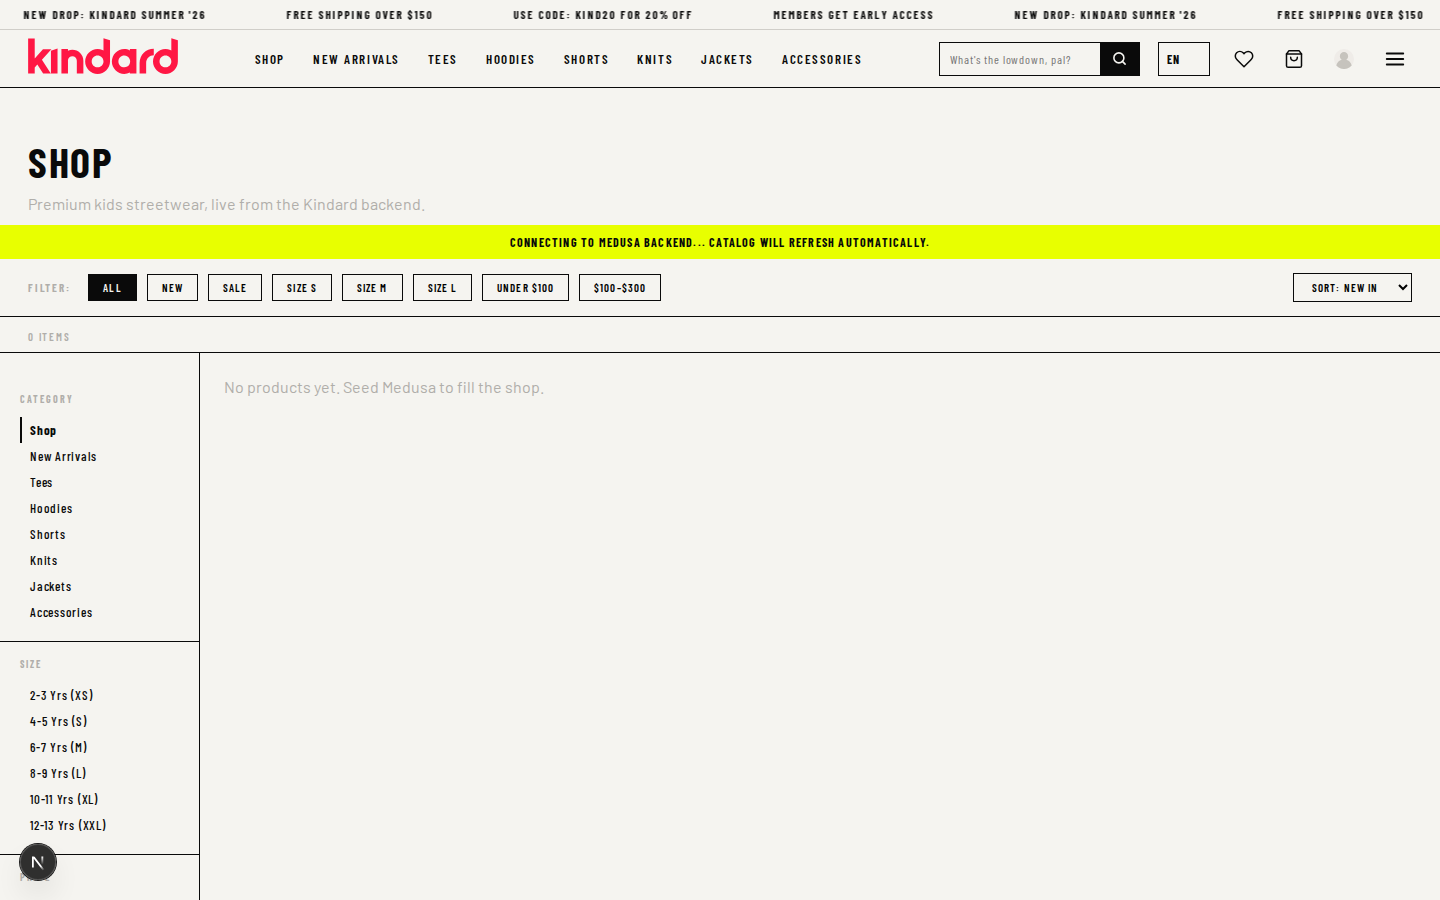
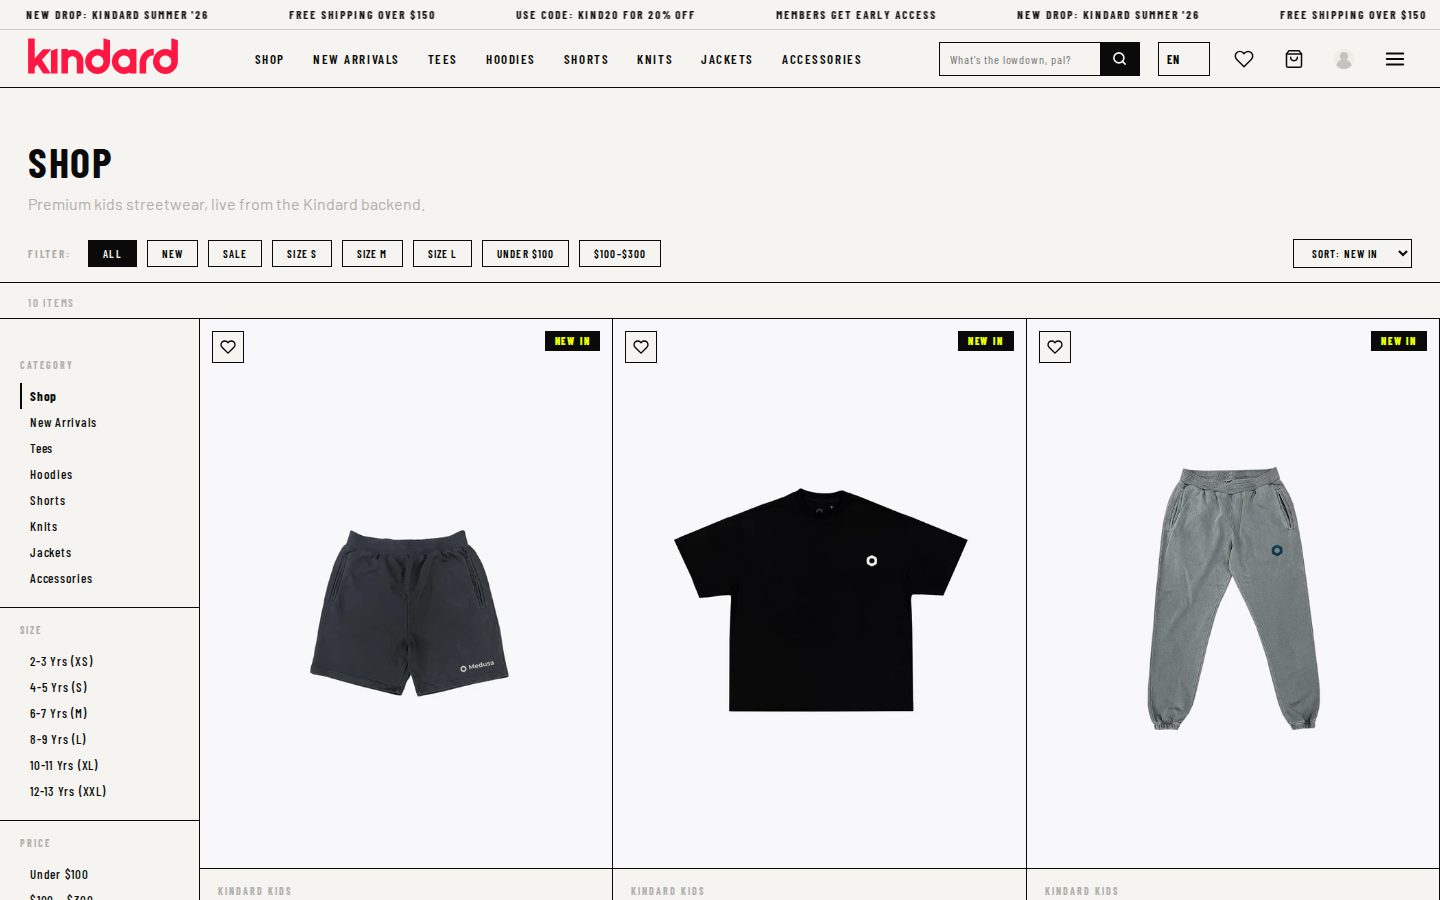
Connect storefront catalog to a live Medusa backend
Start local Postgres/Redis with Medusa, seed Kindard products, write
publishable key into .env, and retry Store API lists so the shop shows
live inventory instead of an empty connecting state.

diff --git a/src/storefront/lib/load-products.ts b/src/storefront/lib/load-products.ts
@@ -1,6 +1,6 @@
 import { fallbackProducts, type Product } from './products'
 import { mapMedusaProduct } from './medusa-mapper'
-import { medusaClient } from './medusa'
+import { medusaClient, SALES_CHANNEL_ID } from './medusa'
 import { medusaServerClient } from './medusa-server'
 
 const PRODUCT_FIELDS =
@@ -22,30 +22,44 @@ async function getDefaultRegionId(): Promise<string | undefined> {
   }
 }
 
-export async function loadMedusaProducts(limit = 20, query?: string): Promise<ProductCatalogResult> {
-  const regionId = await getDefaultRegionId()
-  const listArgs = {
+function listArgs(limit: number, query?: string, regionId?: string) {
+  return {
     limit,
     fields: PRODUCT_FIELDS,
     ...(query ? { q: query } : {}),
     ...(regionId ? { region_id: regionId } : {}),
+    ...(SALES_CHANNEL_ID ? { sales_channel_id: SALES_CHANNEL_ID } : {}),
   }
+}
 
-  try {
-    const { products } = await medusaClient.store.product.list(listArgs)
-    return {
-      products: (products || []).map(mapMedusaProduct),
-      source: 'medusa-store',
+export async function loadMedusaProducts(limit = 20, query?: string): Promise<ProductCatalogResult> {
+  const regionId = await getDefaultRegionId()
+  const attempts = [
+    listArgs(limit, query, regionId),
+    listArgs(limit, query),
+  ]
+
+  for (const args of attempts) {
+    try {
+      const { products } = await medusaClient.store.product.list(args)
+      if (products?.length) {
+        return {
+          products: products.map(mapMedusaProduct),
+          source: 'medusa-store',
+        }
+      }
+    } catch (error) {
+      console.warn('[medusa] store product list failed', error)
     }
-  } catch (error) {
-    console.warn('[medusa] store product list failed, trying admin API', error)
   }
 
   try {
-    const { products } = await medusaServerClient.admin.product.list(listArgs)
-    return {
-      products: (products || []).map(mapMedusaProduct),
-      source: 'medusa-admin',
+    const { products } = await medusaServerClient.admin.product.list(listArgs(limit, query))
+    if (products?.length) {
+      return {
+        products: products.map(mapMedusaProduct),
+        source: 'medusa-admin',
+      }
     }
   } catch (error) {
     console.warn('[medusa] admin product list failed', error)

diff --git a/backend/src/scripts/seed-demo.ts b/backend/src/scripts/seed-demo.ts
@@ -391,5 +391,28 @@ export default async function seedDemo({ container }: ExecArgs) {
   logger.info("Set these in the storefront .env:")
   logger.info(`NEXT_PUBLIC_MEDUSA_PUBLISHABLE_KEY=${publishableApiKey.token}`)
   logger.info(`NEXT_PUBLIC_MEDUSA_SALES_CHANNEL_ID=${defaultSalesChannel.id}`)
+
+  try {
+    const { writeFileSync, readFileSync, existsSync } = await import("node:fs")
+    const { resolve } = await import("node:path")
+    const envPath = resolve(process.cwd(), "..", ".env")
+    if (existsSync(envPath)) {
+      let env = readFileSync(envPath, "utf8")
+      const upsert = (key: string, value: string) => {
+        const line = `${key}=${value}`
+        env = env.match(new RegExp(`^${key}=`, "m"))
+          ? env.replace(new RegExp(`^${key}=.*$`, "m"), line)
+          : `${env.trimEnd()}\n${line}\n`
+      }
+      upsert("NEXT_PUBLIC_MEDUSA_PUBLISHABLE_KEY", publishableApiKey.token)
+      upsert("NEXT_PUBLIC_MEDUSA_SALES_CHANNEL_ID", defaultSalesChannel.id)
+      upsert("NEXT_PUBLIC_MEDUSA_BACKEND_URL", process.env.MEDUSA_URL || "http://127.0.0.1:9000")
+      writeFileSync(envPath, env)
+      logger.info(`Wrote storefront Medusa keys to ${envPath}`)
+    }
+  } catch (error) {
+    logger.warn(`Could not write storefront .env: ${String(error)}`)
+  }
+
   logger.info("Kindard commerce seed complete.")
 }

diff --git a/backend/medusa-config.ts b/backend/medusa-config.ts
@@ -5,7 +5,7 @@ loadEnv(process.env.NODE_ENV || 'development', process.cwd())
 module.exports = defineConfig({
   projectConfig: {
     databaseUrl: process.env.DATABASE_URL,
-    redisUrl: process.env.REDIS_URL,
+    ...(process.env.REDIS_URL ? { redisUrl: process.env.REDIS_URL } : {}),
     // Medusa 2.15.x forces SSL for non-localhost hosts and can hang db:migrate silently.
     databaseDriverOptions: {
       connection: {

diff --git a/README.md b/README.md
@@ -65,6 +65,8 @@ pnpm --dir backend install
 pnpm run seed:commerce
 ```
 
+The seed writes `NEXT_PUBLIC_MEDUSA_PUBLISHABLE_KEY` and `NEXT_PUBLIC_MEDUSA_SALES_CHANNEL_ID` into `.env`. `pnpm run dev:medusa` starts Postgres/Redis if they are local, migrates, then boots Medusa on `:9000`.
+
 3. Copy the printed `NEXT_PUBLIC_MEDUSA_PUBLISHABLE_KEY` and `NEXT_PUBLIC_MEDUSA_SALES_CHANNEL_ID` into `.env`.
 4. Run the three services:
 
